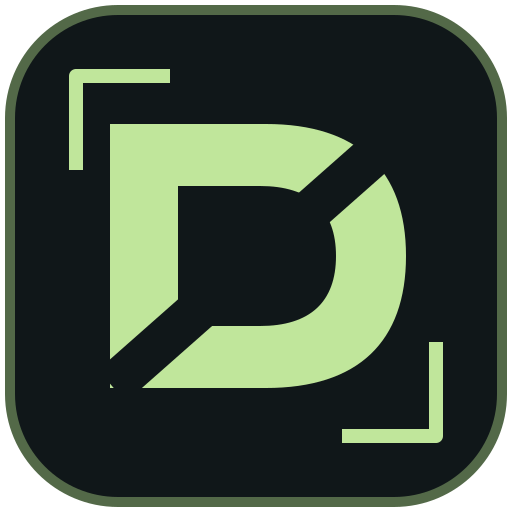
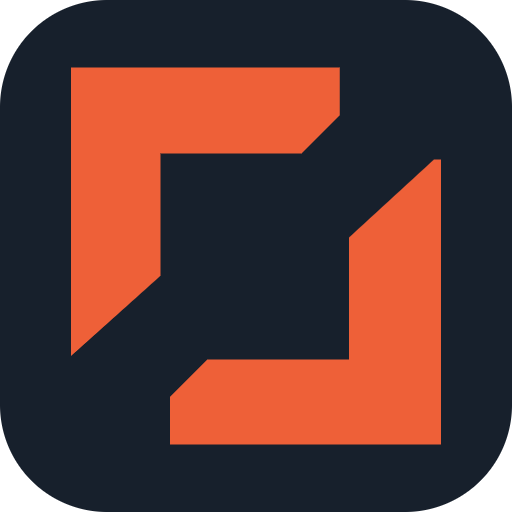
Release 2.3.0 with Waypoint identity and lightweight startup

diff --git a/app/index.html b/app/index.html
@@ -27,9 +27,10 @@
   <link rel="stylesheet" href="wardogs-compact.css">
   <link rel="stylesheet" href="tools-223.css">
   <link rel="stylesheet" href="light-theme.css">
+  <link rel="stylesheet" href="brand-identity.css">
 </head>
 <body>
-  <div class="titlebar"><div class="titlebrand"><img src="assets/brand.svg" alt="">DROPZONE<span data-app-version>2.2.4</span></div><button id="app-update-ready" class="app-update-ready" data-route="updates" hidden>Update ready</button><div class="window-controls"><button data-window="minimize" aria-label="Minimize">−</button><button data-window="maximize" aria-label="Maximize">□</button><button data-window="close" aria-label="Close">×</button></div></div>
+  <div class="titlebar"><div class="titlebrand"><img src="assets/brand.svg" alt="">DROPZONE<span data-app-version>2.3.0</span></div><button id="app-update-ready" class="app-update-ready" data-route="updates" hidden>Update ready</button><div class="window-controls"><button data-window="minimize" aria-label="Minimize">−</button><button data-window="maximize" aria-label="Maximize">□</button><button data-window="close" aria-label="Close">×</button></div></div>
   <aside class="app-rail" aria-label="Dropzone navigation">
     <div class="rail-brand"><img src="assets/brand.svg" alt=""><span>Dropzone<small>Your game companion</small></span></div>
     <nav class="rail-main" aria-label="Workspace"><button class="rail-link" data-route="home" aria-label="Game library" title="Game library"><i data-icon="grid"></i><span>Game library</span></button></nav>
@@ -53,7 +54,7 @@
     <main class="main">
 
       <div id="content" class="content"><div class="boot-state"><img src="assets/brand.svg" alt=""><h1>Loading League of Legends</h1><p>Loading the champion catalog…</p></div></div>
-      <footer class="footer"><span>DROPZONE <b data-app-version>2.2.4</b></span><span>Independent League companion · <button data-view="settings">Sources & methodology</button></span></footer>
+      <footer class="footer"><span>DROPZONE <b data-app-version>2.3.0</b></span><span>Independent League companion · <button data-view="settings">Sources & methodology</button></span></footer>
     </main>
   </div>
   </div>

diff --git a/app/intro.css b/app/intro.css
@@ -1,8 +1,13 @@
-.dz-intro{position:fixed;inset:0;z-index:99999;display:grid;place-items:center;background:#0b0c10;backdrop-filter:blur(22px);color:#d8efc0;transition:background .65s ease,opacity .6s ease,backdrop-filter .6s ease;user-select:none}
-.dz-intro-ready{background:#0b0c10b8}
-.dz-intro-content{width:min(380px,65vw);opacity:0;transform:translateY(8px);transition:opacity .28s ease,transform .6s cubic-bezier(.2,.8,.2,1)}
-.dz-intro-playing .dz-intro-content{opacity:1;transform:translateY(0)}
-.dz-intro-image{display:block;width:100%;height:auto;aspect-ratio:4/3;object-fit:contain;filter:drop-shadow(0 8px 24px #a5e0ba16)}
-.dz-intro.dz-intro-leave{opacity:0;backdrop-filter:blur(0);pointer-events:none}
-.dz-intro-leave .dz-intro-content{opacity:0;transform:scale(1.035)}
-@media(prefers-reduced-motion:reduce){.dz-intro,.dz-intro-content{transition:none;transform:none}}
+.dz-intro{position:fixed;inset:0;z-index:99999;display:grid;place-items:center;background:#11161c;color:#f7f4ed;transition:opacity .45s ease;user-select:none;pointer-events:none}
+.dz-intro-content{display:grid;justify-items:center;gap:22px;opacity:0;transition:opacity .2s ease}
+.dz-intro-content span{font:750 16px/1 'Segoe UI',sans-serif;letter-spacing:3px}
+.dz-intro-image{width:92px;height:92px;overflow:visible}
+.dz-intro-playing .dz-intro-content{opacity:1}
+.dz-intro-playing .dz-bracket-first{animation:waypoint-upper .6s cubic-bezier(.2,.8,.2,1) both}
+.dz-intro-playing .dz-bracket-second{animation:waypoint-lower .6s cubic-bezier(.2,.8,.2,1) both}
+.dz-intro.dz-intro-leave{opacity:0}
+html[data-appearance=light] .dz-intro{background:#f7f4ed;color:#17202c}
+@keyframes waypoint-upper{from{transform:translate(-45px,-45px);opacity:0}to{transform:translate(0,0);opacity:1}}
+@keyframes waypoint-lower{from{transform:translate(45px,45px);opacity:0}to{transform:translate(0,0);opacity:1}}
+@media(prefers-reduced-motion:reduce){.dz-intro,.dz-intro *{animation:none!important;transition:none!important}}
+.app-reduced-motion .dz-intro,.app-reduced-motion .dz-intro *{animation:none!important;transition:none!important}

diff --git a/app/intro.js b/app/intro.js
@@ -2,8 +2,8 @@
 const native=window.rift?.desktop,preview=new URLSearchParams(location.search).has('intro');
 if(native||preview){
   const overlay=document.createElement('div');overlay.className='dz-intro';overlay.setAttribute('aria-hidden','true');
-  const reduced=matchMedia('(prefers-reduced-motion: reduce)').matches;
-  overlay.innerHTML='<div class="dz-intro-content"><img class="dz-intro-image" src="assets/intro/dropzone-still.webp" alt=""></div>';
+  const reduced=matchMedia('(prefers-reduced-motion: reduce)').matches||document.body.classList.contains('app-reduced-motion');
+  overlay.innerHTML='<div class="dz-intro-content"><svg class="dz-intro-image" viewBox="0 0 350 350" aria-hidden="true"><g fill="#EE6038" transform="translate(16 13)"><path class="dz-bracket-first" d="M0 0H231V41L198 74H77V179L0 248Z"/><path class="dz-bracket-second" d="M318 79V324H85V283L117 251H239V146L312 79Z"/></g></svg><span>DROPZONE</span></div>';
   document.body.append(overlay);
   let started=false,elapsed=false,ready=false,finished=false;
   const reveal=()=>{
@@ -13,9 +13,8 @@ if(native||preview){
   };
   const start=()=>{
     if(started)return;started=true;
-    if(!reduced)overlay.querySelector('img').src='assets/intro/dropzone-intro.webp';
     overlay.classList.add('dz-intro-playing');
-    setTimeout(()=>{elapsed=true;reveal();},reduced?0:2050);
+    setTimeout(()=>{elapsed=true;reveal();},reduced?0:750);
   };
   window.addEventListener('dropzone-page-ready',()=>{ready=true;overlay.classList.add('dz-intro-ready');reveal();},{once:true});
   if(native)window.rift.onStartupReveal(start);else start();

diff --git a/app/brand-identity.css b/app/brand-identity.css
@@ -1,0 +1,11 @@
+/* Waypoint brand chrome. Game data and tactical highlight colors stay semantic. */
+.titlebrand img{opacity:1;width:19px;height:19px}.rail-brand>img{width:32px;height:32px;object-fit:contain}
+.rail-brand{font-weight:750;letter-spacing:-.5px}
+.rail-link[aria-current=page],.app-rail .update-badge[aria-current=page]{background:#ee603817;border-color:#ee60384a;color:#ffb699}
+.rail-link[aria-current=page] .icon{color:#ff956e}
+.titlebar{border-bottom-color:#ee603821}.titlebrand{color:#f0eee9}
+.app-update-ready{border-color:#ee60385c;color:#ffb699;background:#ee603815}
+.boot-state img{width:64px;height:64px}
+html[data-appearance=light] .rail-link[aria-current=page],html[data-appearance=light] .app-rail .update-badge[aria-current=page]{background:#fff0e9!important;border-color:#edb59f!important;color:#9d3516!important}
+html[data-appearance=light] .rail-link[aria-current=page] .icon{color:#b94019!important}
+html[data-appearance=light] .titlebrand{color:#17202c}

diff --git a/app/version.js b/app/version.js
@@ -1,2 +1,2 @@
 // Generated from package.json by scripts/set-version.cjs.
-export const APP_VERSION="2.2.4";
+export const APP_VERSION="2.3.0";

diff --git a/docs/VALIDATION.md b/docs/VALIDATION.md
@@ -1,3 +1,12 @@
+# Version 2.3.0 validation — September 16, 2026
+
+- 156 automated app tests pass, including startup readiness and reduced-motion handling for the new vector intro.
+- Real browser previews of WARDOGS, sensitivity conversion and Call of Duty were captured with the approved Waypoint branding. WARDOGS marker placement produced a 486 m / 45 degree solution.
+- The Windows x64 installer builds with the new icon and wordmark. Native installation, upgrading an installed copy and live game accuracy were not tested for this release.
+- The website retains SEO metadata and feature URLs, with six scroll-driven chapters and a Blender-rendered Waypoint sequence. Forward/reverse scrolling, rapid scroll jumps, anchor links, game switching, reduced motion, mobile overflow and no-JavaScript content were checked. Eleven existing website tests pass.
+
+## Historical validation
+
 # Version 2.0.0 validation — September 8, 2026
 
 - All 101 automated tests pass on Windows with Node 24.13.0, including source parsing, saved snapshot models, app updater behavior, release artifact verification, map keyboard handling, and renderer lifecycle regressions.

diff --git a/docs/RELEASE-NOTES.md b/docs/RELEASE-NOTES.md
@@ -1,3 +1,10 @@
+# Dropzone 2.3.0
+
+- New Waypoint logo, Windows application and installer icons, and updated navigation branding.
+- Lightweight vector startup animation over the real destination, with no video decoding or intermediate splash screen.
+- Dark, Light and System settings are preserved, including reduced-motion preferences.
+- Calculator behavior, game data, saved builds and user settings are unchanged.
+
 # Dropzone 2.2.4
 
 - Faster workspace loading, lighter weapon thumbnails, and less unnecessary rendering.
